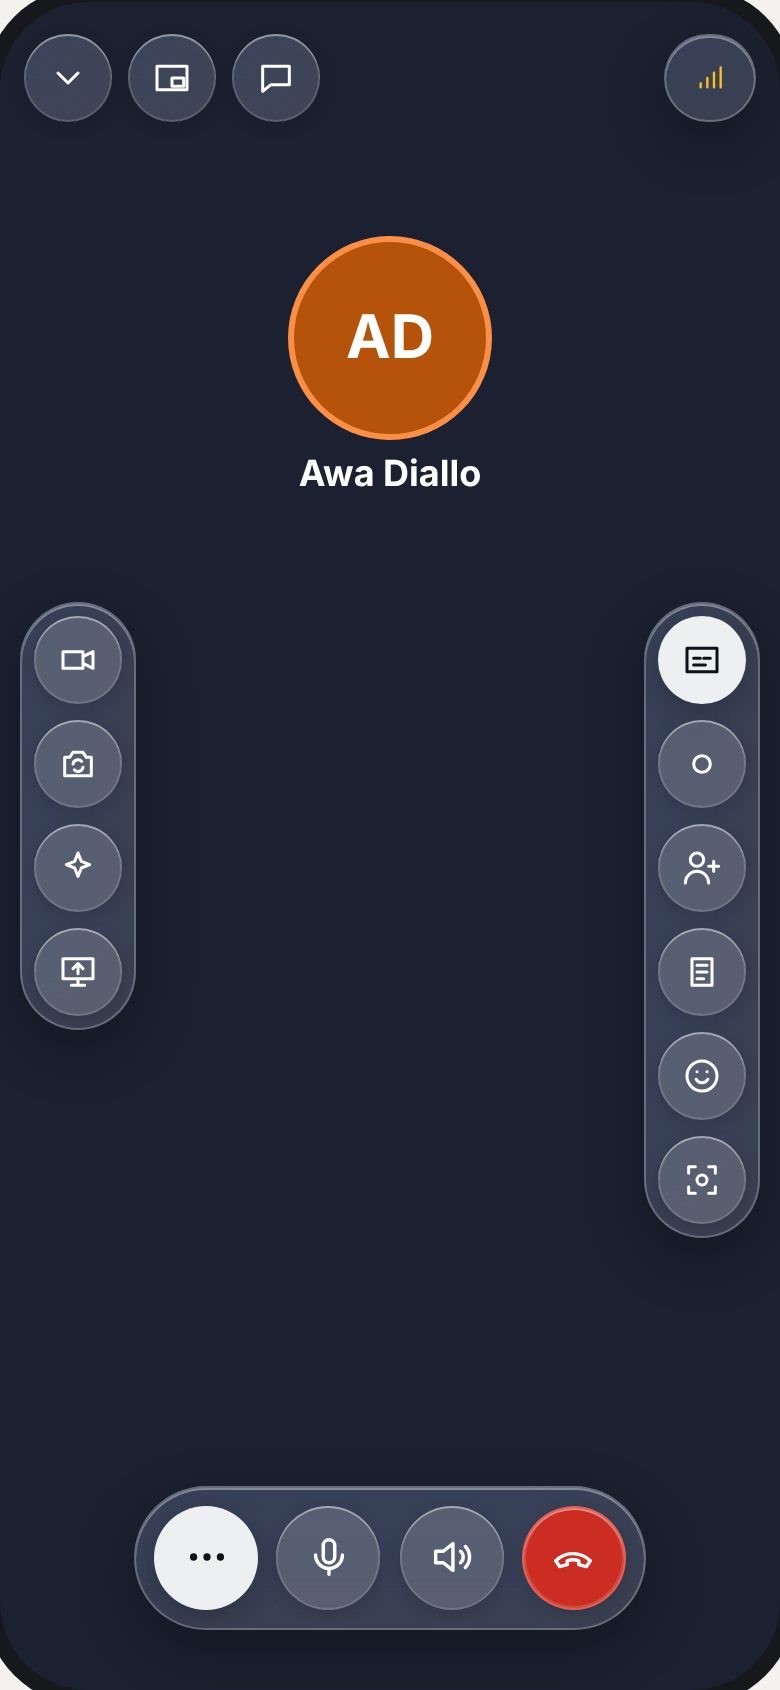
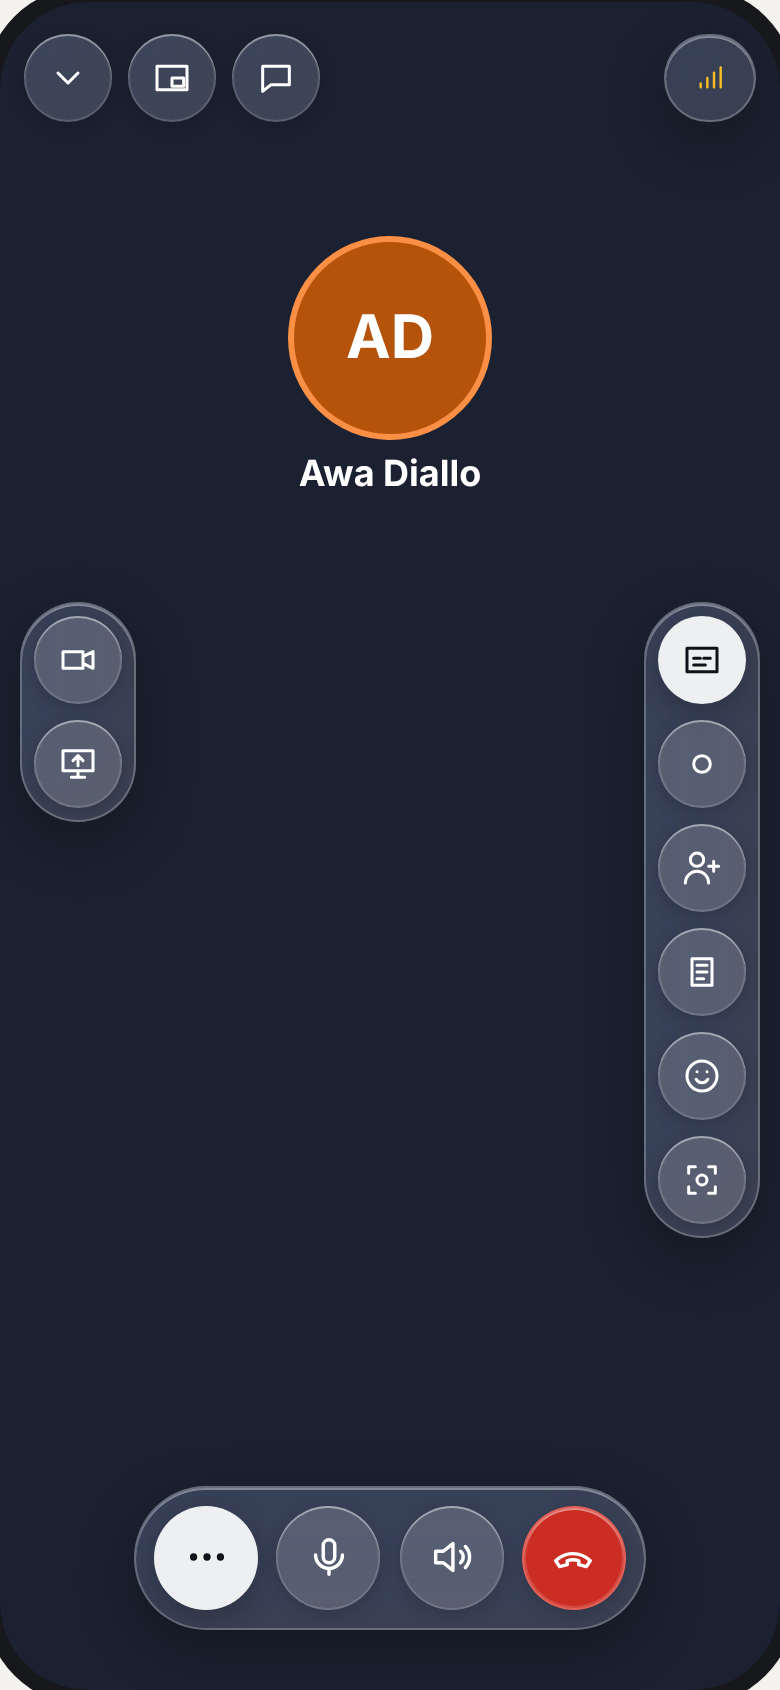
docs(appels): caméra éteinte, « mon image » ne porte que Caméra et Écran ; la colonne du journal reste ouverte sur grand écran
Réponses du porteur du 2026-11-10 aux deux questions du passage de la
famille « duo vidéo, portrait » (#17329). P10 régénérée par capture.mjs.

Refs #17329

Claude-Session: https://claude.ai/code/session_015SWXf7WvNYyQX5o6rHgc69

Changed region(s): [[0.0, 0.4308, 0.1846, 0.6154]]

diff --git a/docs/product/appels-vue-finale/planche.html b/docs/product/appels-vue-finale/planche.html
@@ -92,7 +92,7 @@ const B=(k,label,cls='',size=44)=>`<button type="button" class="btn ${cls}" aria
 const C={awa:'var(--awa)',karim:'var(--karim)',lina:'var(--lina)',moi:'var(--moi)'};
 const pillBtns=(open,micOff)=>B('more',open?'Masquer les actions':'Afficher les actions',open?'on':'',52)+B(micOff?'micoff':'mic',micOff?'Réactiver le micro':'Couper le micro',micOff?'on':'',52)+B('speaker','Sortie audio','',52)+B('end','Raccrocher','red',52);
 const pill=(o={})=>`<div class="pill glass ${o.light?'onlight':''}" style="left:50%;transform:translateX(-50%);bottom:${o.bottom??30}px;width:256px;height:72px">${pillBtns(o.open,o.micOff)}</div>`;
-const leftRail=(cam=true,size=44)=>[B('video',cam?'Couper la caméra':'Activer la caméra',cam?'on':'',size),B('flip','Retourner la caméra','',size),B('effects','Effets de ma caméra','',size),B('screen','Partager mon écran','',size)].join('');
+const leftRail=(cam=true,size=44)=>[B('video',cam?'Couper la caméra':'Activer la caméra',cam?'on':'',size),...(cam?[B('flip','Retourner la caméra','',size),B('effects','Effets de ma caméra','',size)]:[]),B('screen','Partager mon écran','',size)].join('');
 const CALL_ACTIONS=[['captions','Sous-titres','Sous-titres'],['record','Enregistrer','Enregistrer'],['add','Ajouter','Ajouter une personne'],['journal','Journal','Journal de l’appel'],['react','Réagir','Réagir'],['capture','Capture','Capturer l’appel']];
 const rightRail=(caps=false,size=44)=>CALL_ACTIONS.map(([k,,label])=>B(k,label,k==='captions'&&caps?'on':'',size)).join('');
 const rails=(o={})=>`<div class="rail glass" role="group" aria-label="Mon image" style="left:10px;top:${o.top??250}px;${o.size?'gap:6px':''}">${leftRail(o.cam!==false,o.size)}</div><div class="rail glass" role="group" aria-label="L'appel" style="right:10px;top:${o.top??250}px;${o.size?'gap:6px':''}">${rightRail(o.caps,o.size)}</div>`;
@@ -143,7 +143,7 @@ const S=[
 ]},
 {h:'Duo audio, portrait',lead:'Sans vidéo, la personne au centre ; mêmes rails, même pilule. « Caméra » dans le rail gauche bascule l’appel en vidéo.',b:[
 {id:'P9',t:'Audio, repos',d:'Avatar, nom, durée au centre ; l’en-tête ne porte à droite que l’indicateur réseau, et seulement s’il se dégrade. L’anneau de l’avatar prend la couleur de la personne quand elle parle.',html:phone(head('')+`<div class="person" style="left:0;right:0;top:220px"><span class="av" style="width:132px;height:132px;background:#B45309;font-size:40px;box-shadow:0 0 0 4px var(--awa),0 0 30px var(--awa)">AD</span><b style="font-size:22px">Awa Diallo</b><span style="color:rgba(255,255,255,.75)">En train de parler</span></div>`+pill(),'#1B2130')},
-{id:'P10',t:'Audio, actions',d:'Rails ouverts (Caméra éteinte = contour), réseau dégradé dans l’en-tête. Tant que les actions sont ouvertes, sous-titres et journal se rangent ; ils reviennent dans la pilule quand on la referme.',html:phone(head('',{net:'degraded'})+`<div class="person" style="left:0;right:0;top:120px"><span class="av" style="width:96px;height:96px;background:#B45309;font-size:30px;box-shadow:0 0 0 3px var(--awa)">AD</span><b style="font-size:18px">Awa Diallo</b></div>`+rails({cam:false,caps:true,top:300})+pill({open:true}),'#1B2130')}
+{id:'P10',t:'Audio, actions',d:'Rails ouverts. Caméra éteinte : « mon image » ne porte que Caméra et Écran, Retourner et Effets n’ayant pas d’effet, réseau dégradé dans l’en-tête. Tant que les actions sont ouvertes, sous-titres et journal se rangent ; ils reviennent dans la pilule quand on la referme.',html:phone(head('',{net:'degraded'})+`<div class="person" style="left:0;right:0;top:120px"><span class="av" style="width:96px;height:96px;background:#B45309;font-size:30px;box-shadow:0 0 0 3px var(--awa)">AD</span><b style="font-size:18px">Awa Diallo</b></div>`+rails({cam:false,caps:true,top:300})+pill({open:true}),'#1B2130')}
 ]},
 {h:'Groupe',lead:'La grille prend l’écran. Chaque vignette porte le liseré de la couleur de la personne, la mienne comprise ; qui parle s’illumine de sa couleur. En groupe, les actions montent dans la même pilule, qui s’agrandit.',b:[
 {id:'P11',t:'Groupe, repos',d:'Grille 2×2, noms en verre, micro barré sur la vignette de qui l’a coupé.',html:phone(groupTiles({speak:'awa'})+head('Équipe · 4 · 12:40')+pill(),'#0E1117')},

diff --git a/docs/product/appels-vue-finale.md b/docs/product/appels-vue-finale.md
@@ -16,7 +16,7 @@
    - Sur iOS 16 à 25, le bouton est le verre dessiné de `adaptiveLiquidGlass`. Android transpose par `MeeshyGlassSurface`.
    - **La capsule de droite de l'en-tête** (décision porteur du 2026-11-09, #17341) : en vidéo, elle porte le nom que j'ai donné à la personne (sinon son nom d'affichage) et la durée, « Awa · 04:12 » ; l'indicateur réseau n'y apparaît que si la connexion se dégrade. En audio, le nom et la durée sont déjà au centre sous l'avatar : la capsule n'existe que pour l'indicateur réseau, et seulement s'il se dégrade. En groupe, elle porte le nom du groupe, le nombre et la durée.
 2. **(…) fait sortir les actions, et les range.**
-   - En duo, deux rails verticaux sortent vers les bords. **Gauche = mon image** : Caméra, Retourner, Effets, Écran. **Droite = l'appel** : Sous-titres, Enregistrer, Ajouter, Journal, Réagir, Capture.
+   - En duo, deux rails verticaux sortent vers les bords. **Gauche = mon image** : Caméra, Retourner, Effets, Écran ; caméra éteinte, seulement Caméra et Écran, car un contrôle sans effet n'est pas posé (porteur, 2026-11-10). **Droite = l'appel** : Sous-titres, Enregistrer, Ajouter, Journal, Réagir, Capture.
    - **La liste « l'appel » ne porte que ce qui n'a pas déjà sa place ailleurs** (décisions porteur du 2026-11-09, #17329 : « il faut garder » ce que le code porte en plus, « ajouter ce qui n'existe pas encore ailleurs », et la planche s'enrichit « sans doublon de ce qu'elle rend déjà autrement », #17332). La conversation s'ouvre par l'en-tête (#8436) et l'image dans l'image y a son bouton : l'en-tête porte, de gauche à droite, Réduire · Image dans l'image (si l'appel y est éligible, ou pour en sortir) · Conversation (si elle est connue). Rien ne disparaît : Messages et Image dans l'image passent à l'en-tête, Journal, Réagir et Capture entrent dans la liste.
    - En groupe, les mêmes dix actions montent dans la pilule, qui s'agrandit en deux rangées légendées (mon image, puis l'appel).
    - **Les deux dispositions se tiennent selon le nombre de participants** (directive porteur du 2026-11-09, #17327) : à plusieurs, aucun rail ne se pose par-dessus la grille, pour ne masquer aucune vignette.
@@ -47,7 +47,7 @@
 7. **Le journal est FIDÈLE, pendant et après l'appel.**
    - C'est le MÊME journal avant et après la fin de l'appel : mêmes phrases, même ordre, mêmes couleurs, même descente du Prisme.
    - L'original : pendant l'appel, il se déplie sous la phrase qu'on touche, comme dans la bande ; après l'appel, il est sous chaque traduction (décision porteur du 2026-11-09, #17340).
-   - Pendant l'appel, il s'ouvre dans la pilule, au-dessus de la rangée de base, et y défile ; ouvrir les actions (…) le range (#17343). Ma vignette garde sa place pendant qu'il est ouvert (porteur, 2026-11-10). Sur un écran large (web), il se pose en colonne à droite (W1).
+   - Pendant l'appel, il s'ouvre dans la pilule, au-dessus de la rangée de base, et y défile ; ouvrir les actions (…) le range (#17343). Ma vignette garde sa place pendant qu'il est ouvert (porteur, 2026-11-10). Sur un écran large (web), il se pose en colonne à droite (W1) ; cette colonne ne masque rien et reste ouverte quand on ouvre (…) (porteur, 2026-11-10).
    - Rien n'est tronqué, et une ligne dont la traduction arrive après la fin de la phrase est mise à jour sur place, pas dupliquée. Les règles de fusion sont web `mergeCaption`, iOS `CallTranscriptMergeRules`, Android `CallLiveJournal.merged`.
    - Après l'appel, il se déplie sous la bulle d'appel du fil et dans le détail de l'historique. Une bascule Traduit / Original s'applique à tout l'appel.
    - Pendant l'appel :
